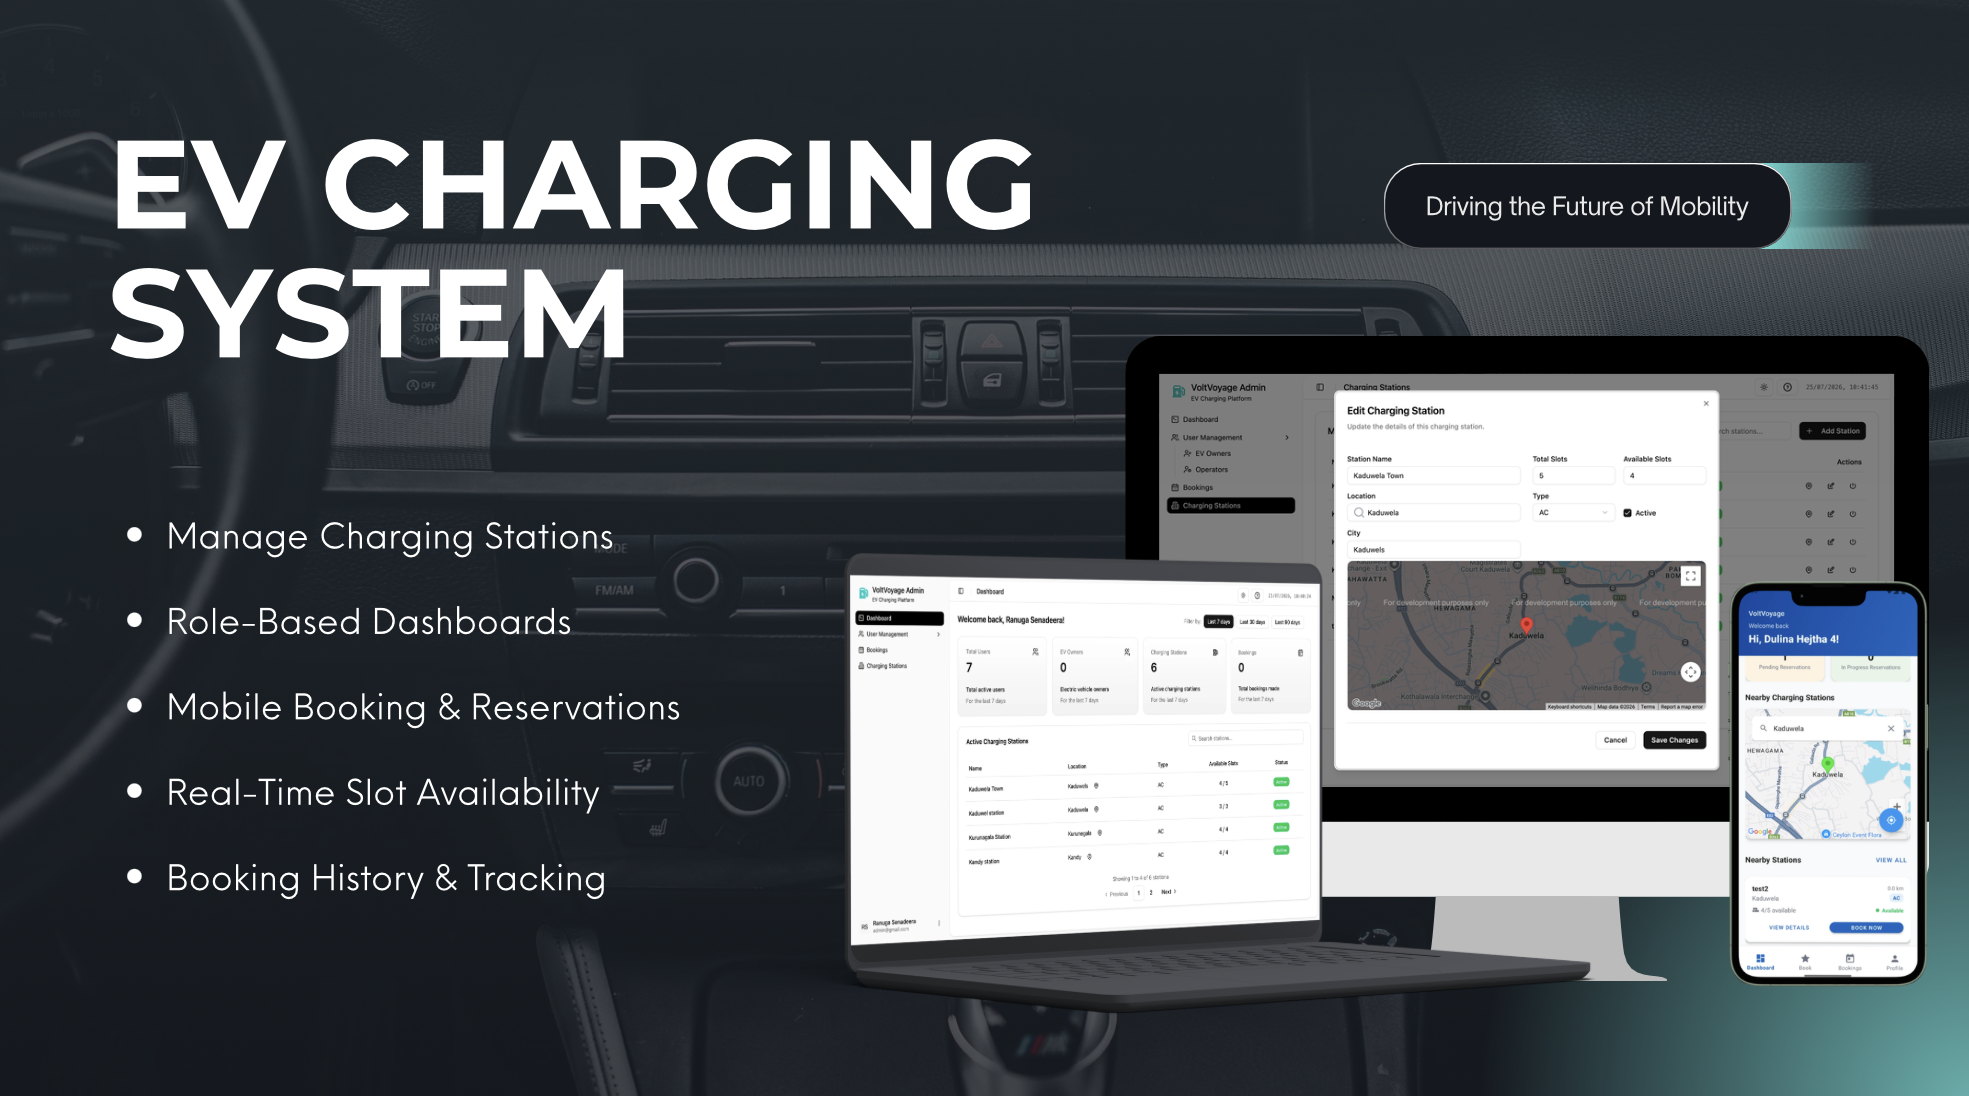
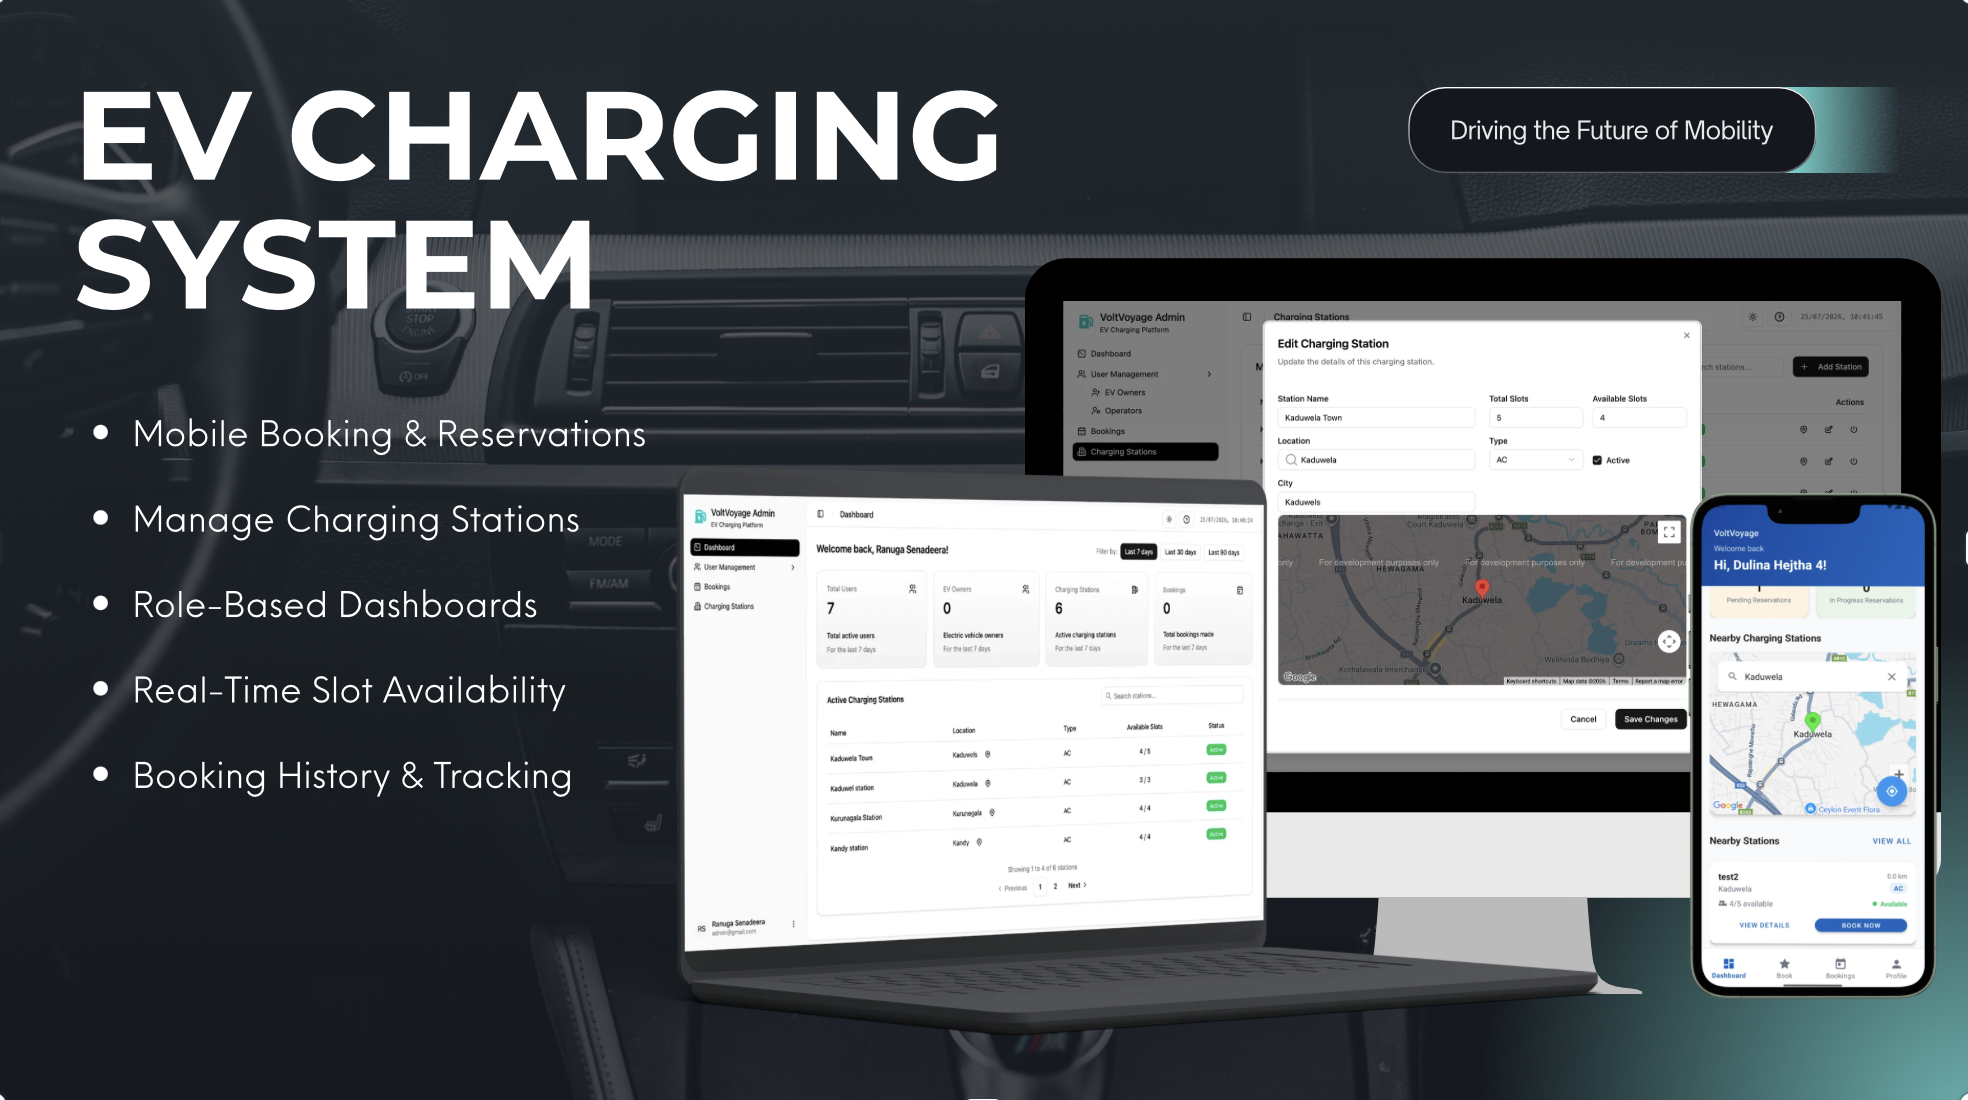
Remove unused EV charging image and update import in Projects component; clean up Skills component imports

diff --git a/src/components/Skills.js b/src/components/Skills.js
@@ -1,7 +1,6 @@
 import React, { useRef } from "react";
-import { FaReact, FaJsSquare, FaBootstrap, FaJava, FaLaravel } from "react-icons/fa";
+import { FaReact, FaJsSquare, FaJava, FaLaravel } from "react-icons/fa";
 import { SiMongodb, SiTypescript, SiSpringboot, SiMysql, SiPostgresql, SiNodedotjs, SiExpress, SiDotnet } from "react-icons/si";
-import { RiTailwindCssFill } from "react-icons/ri";
 import { FaFlutter } from "react-icons/fa6";
 import Carousel from 'react-multi-carousel';
 import 'react-multi-carousel/lib/styles.css';

diff --git a/src/components/Projects.js b/src/components/Projects.js
@@ -16,7 +16,7 @@ import country from "../assets/img/country.png";
 import hospital from "../assets/img/hospital.png";
 import sales from "../assets/img/sales.png";
 import mail from "../assets/img/mail.png";
-import evCharging from "../assets/img/ev-charging-2.png";
+import evCharging from "../assets/img/ev-charging.png";
 
 export const Projects = () => {
 
